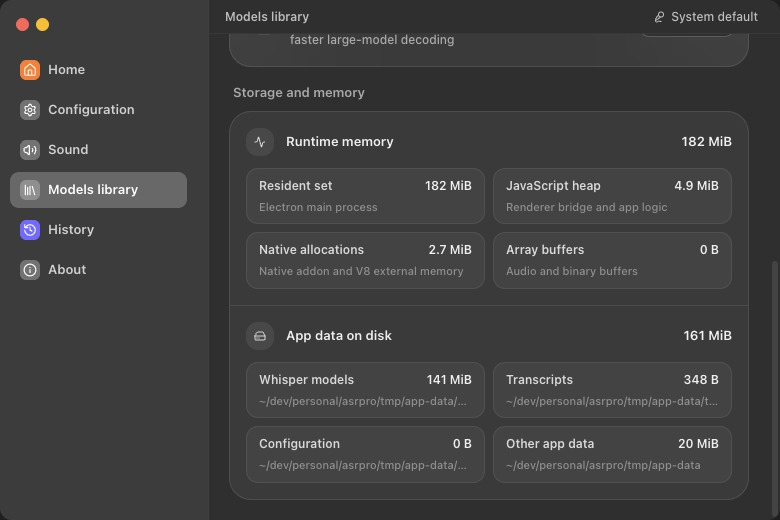
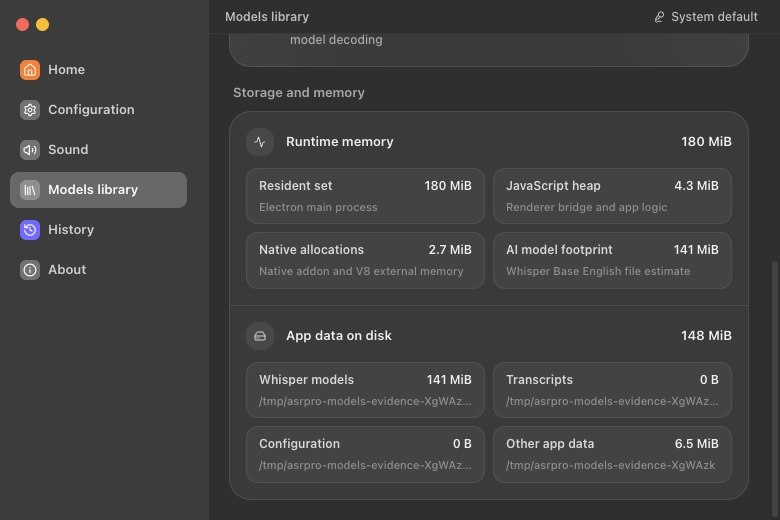
ASR Pro: polish model library controls

diff --git a/src/App.tsx b/src/App.tsx
@@ -221,6 +221,7 @@ const modelIdsByName: Record<string, string> = {
 };
 const transcriptHistoryStorageKey = "asrpro.transcriptHistory.v1";
 const audioInputDeviceStorageKey = "asrpro.audioInputDevice.v1";
+const selectedModelStorageKey = "asrpro.selectedModel.v1";
 const seededScreenshotHistoryIdPrefix = "readme-history-";
 const seededScreenshotHistoryRows = new Map([
   ["Product demo follow-up", "Summarize the product demo, send the follow-up notes, and schedule the model comparison review."],
@@ -402,6 +403,33 @@ function saveSelectedAudioInputId(deviceId: string) {
     window.localStorage.setItem(audioInputDeviceStorageKey, deviceId);
   } catch {
     // Local storage failures should not block recording.
+  }
+}
+
+function normalizeSelectedModelName(value: unknown, models: EngineModelInfo[] = fallbackModelCards) {
+  if (typeof value !== "string" || !value.trim()) return undefined;
+
+  const normalized = value.trim();
+  const byName = models.find((model) => model.displayName === normalized);
+  if (byName) return byName.displayName;
+
+  const byId = models.find((model) => model.id === normalized);
+  return byId?.displayName;
+}
+
+function loadSelectedModelName(models: EngineModelInfo[] = fallbackModelCards) {
+  try {
+    return normalizeSelectedModelName(window.localStorage.getItem(selectedModelStorageKey), models);
+  } catch {
+    return undefined;
+  }
+}
+
+function saveSelectedModelName(modelName: string) {
+  try {
+    window.localStorage.setItem(selectedModelStorageKey, modelName);
+  } catch {
+    // Local storage failures should not block recognition.
   }
 }
 
@@ -898,7 +926,7 @@ function App() {
   const [recordingStatus, setRecordingStatus] = useState<RecordingStatus>("idle");
   const [recordingError, setRecordingError] = useState<string | null>(null);
   const [recordingDurationSeconds, setRecordingDurationSeconds] = useState(0);
-  const [selectedModel, setSelectedModel] = useState(defaultModelName);
+  const [selectedModel, setSelectedModel] = useState(() => loadSelectedModelName() ?? defaultModelName);
   const [audioInputDevices, setAudioInputDevices] = useState<AudioInputDeviceOption[]>(defaultAudioInputOptions);
   const [selectedAudioInputId, setSelectedAudioInputId] = useState(loadSelectedAudioInputId);
   const [audioInputDevicesLoading, setAudioInputDevicesLoading] = useState(false);
@@ -916,6 +944,7 @@ function App() {
   const [isScrollbarVisible, setIsScrollbarVisible] = useState(true);
   const recordingStartedAtRef = useRef<number | null>(null);
   const recordingTransitionRef = useRef<"starting" | "stopping" | null>(null);
+  const runtimeStateLoadedRef = useRef(false);
   const scrollbarTimerRef = useRef<number | null>(null);
   const overlayPlacementTouchedRef = useRef(false);
   useMicrophoneWaveform(isRecording);
@@ -1105,6 +1134,11 @@ function App() {
     saveSelectedAudioInputId(deviceId);
   }, []);
 
+  const handleSelectModel = useCallback((modelName: string) => {
+    setSelectedModel(modelName);
+    saveSelectedModelName(modelName);
+  }, []);
+
   const handleTextEditorChange = useCallback((editorId: string) => {
     const normalizedEditorId = normalizeTextEditorId(editorId, textEditorOptions);
     setSelectedTextEditorId(normalizedEditorId);
@@ -1287,11 +1321,17 @@ function App() {
       }).catch(() => {});
     }
 
-    if (api.getRuntimeState) {
+    if (api.getRuntimeState && !runtimeStateLoadedRef.current) {
+      runtimeStateLoadedRef.current = true;
       Promise.resolve(api.getRuntimeState()).then((state) => {
         if (!state) return;
         setRuntimeInfo(state);
-        setSelectedModel(state.defaultModel || defaultModelName);
+        const nextModels = getRuntimeModels(state.models);
+        const nextSelectedModel = loadSelectedModelName(nextModels)
+          ?? normalizeSelectedModelName(state.defaultModelId, nextModels)
+          ?? normalizeSelectedModelName(state.defaultModel, nextModels)
+          ?? defaultModelName;
+        setSelectedModel(nextSelectedModel);
         const nextTextEditorOptions = normalizeTextEditorOptions(state.textEditors);
         setTextEditorOptions(nextTextEditorOptions);
         setSelectedTextEditorId(normalizeTextEditorId(state.defaultTextEditor, nextTextEditorOptions));
@@ -1303,7 +1343,9 @@ function App() {
         } else if (!recordingTransitionRef.current && !audioRecordingService.isRecording()) {
           setIsRecording(false);
         }
-      }).catch(() => {});
+      }).catch(() => {
+        runtimeStateLoadedRef.current = false;
+      });
     }
 
     const unsubscribeRecording = api.onRecordingState?.((state) => {
@@ -1464,7 +1506,7 @@ function App() {
                 engine={runtimeInfo?.engine}
                 busyModelId={modelActionId}
                 actionError={modelLibraryError}
-                onSelectModel={setSelectedModel}
+                onSelectModel={handleSelectModel}
                 onDownloadModel={handleDownloadModel}
                 onDeleteModel={handleDeleteModel}
               />
@@ -2145,29 +2187,21 @@ function ModelsView({
                   ) : null}
                 </button>
                 <div className="flex shrink-0 items-center justify-end gap-2 pl-11 sm:pl-0">
-                  <StatusLabel>{installed ? "Ready" : "Needs setup"}</StatusLabel>
+                  <ModelStatusLabel installed={installed} />
                   {installed ? (
-                    <PanelControlButton
-                      type="button"
-                      aria-label={`Delete ${model.displayName}`}
-                      className="h-8 px-2.5 hover:bg-[#4a3333]"
-                      disabled={busy}
+                    <ModelActionButton
+                      ariaLabel={`Delete ${model.displayName}`}
+                      busy={busy}
+                      kind="delete"
                       onClick={() => onDeleteModel(model.id)}
-                    >
-                      <Trash2 className="size-3" />
-                      <span>{busy ? "Deleting" : "Delete"}</span>
-                    </PanelControlButton>
+                    />
                   ) : (
-                    <PanelControlButton
-                      type="button"
-                      aria-label={`Download ${model.displayName}`}
-                      className="h-8 px-2.5 hover:bg-[#394a40]"
-                      disabled={busy}
+                    <ModelActionButton
+                      ariaLabel={`Download ${model.displayName}`}
+                      busy={busy}
+                      kind="download"
                       onClick={() => onDownloadModel(model.id)}
-                    >
-                      {busy ? <RefreshCw className="size-3 animate-spin" /> : <Download className="size-3" />}
-                      <span>{busy ? "Setting up" : "Download"}</span>
-                    </PanelControlButton>
+                    />
                   )}
                 </div>
               </div>
@@ -2191,6 +2225,46 @@ function ModelsView({
       ) : null}
       <ResourceStatsPanel stats={storageStats} />
     </ViewFrame>
+  );
+}
+
+function ModelStatusLabel({ installed }: { installed: boolean }) {
+  const Icon = installed ? CheckCircle2 : Info;
+  const toneClass = installed ? "text-[#a9d9b8]" : "text-[#d9bd72]";
+  const label = installed ? "Ready" : "Needs setup";
+
+  return (
+    <span className={`inline-flex shrink-0 items-center gap-1 text-[11px] font-semibold ${toneClass}`}>
+      <Icon className="size-3" />
+      {label}
+    </span>
+  );
+}
+
+interface ModelActionButtonProps {
+  ariaLabel: string;
+  busy: boolean;
+  kind: "download" | "delete";
+  onClick: () => void;
+}
+
+function ModelActionButton({ ariaLabel, busy, kind, onClick }: ModelActionButtonProps) {
+  const Icon = busy ? RefreshCw : kind === "delete" ? Trash2 : Download;
+  const toneClass = kind === "delete"
+    ? "text-[#cfcfcf] hover:bg-[#4a3333] hover:text-[#ffb3aa]"
+    : "text-[#cfcfcf] hover:bg-[#344235] hover:text-[#bce7c9]";
+
+  return (
+    <button
+      type="button"
+      aria-label={ariaLabel}
+      title={ariaLabel}
+      className={`grid size-8 shrink-0 place-items-center rounded-full border-0 bg-transparent p-0 transition active:scale-[0.96] disabled:cursor-wait disabled:opacity-55 ${toneClass} ${focusRingClass}`}
+      disabled={busy}
+      onClick={onClick}
+    >
+      <Icon className={`size-3.5 ${busy ? "animate-spin" : ""}`} />
+    </button>
   );
 }
 

diff --git a/src/App.test.tsx b/src/App.test.tsx
@@ -1105,6 +1105,7 @@ describe("ASR Pro Electron shell", () => {
           items: [
             { id: "resident", label: "Resident set", bytes: 125_829_120 },
             { id: "heap", label: "JavaScript heap", bytes: 41_943_040 },
+            { id: "model-footprint", label: "AI model footprint", bytes: 148_897_792 },
           ],
         },
         {
@@ -1159,14 +1160,73 @@ describe("ASR Pro Electron shell", () => {
     expect(screen.getAllByText("1.5 GiB").length).toBeGreaterThan(0);
     expect(screen.getByText("Runtime memory")).toBeTruthy();
     expect(screen.getByText("Resident set")).toBeTruthy();
+    expect(screen.getByText("AI model footprint")).toBeTruthy();
     expect(screen.getAllByText("120 MiB").length).toBeGreaterThan(0);
     expect(screen.getByText("Whisper models")).toBeTruthy();
+    expect(screen.getByText("Needs setup").className).toContain("text-[11px]");
 
-    await user.click(screen.getByRole("button", { name: "Download Whisper Large v3 Turbo" }));
+    const downloadButton = screen.getByRole("button", { name: "Download Whisper Large v3 Turbo" });
+    expect(downloadButton.textContent).not.toContain("Download");
+    expect(downloadButton.className).toContain("border-0");
+
+    await user.click(downloadButton);
     expect(downloadModel).toHaveBeenCalledWith("whisper-large-v3-turbo");
 
-    await user.click(screen.getByRole("button", { name: "Delete Whisper Base English" }));
+    const deleteButton = screen.getByRole("button", { name: "Delete Whisper Base English" });
+    expect(deleteButton.textContent).not.toContain("Delete");
+    expect(deleteButton.className).toContain("border-0");
+
+    await user.click(deleteButton);
     expect(deleteModel).toHaveBeenCalledWith("whisper-base-en");
+  });
+
+  it("keeps the selected model after the runtime state refreshes", async () => {
+    const user = userEvent.setup();
+    const models = [
+      {
+        id: "whisper-base-en",
+        displayName: "Whisper Base English",
+        detail: "Default local model for English dictation",
+        sizeLabel: "142 MiB",
+        installed: true,
+        diskBytes: 148_897_792,
+      },
+      {
+        id: "whisper-small-en",
+        displayName: "Whisper Small English",
+        detail: "Better accuracy, larger local model",
+        sizeLabel: "466 MiB",
+        installed: false,
+        diskBytes: 0,
+      },
+    ];
+    const getRuntimeState = vi.fn().mockResolvedValue({
+      isRecording: false,
+      defaultModel: "Whisper Base English",
+      models,
+      shortcut: "CommandOrControl+`",
+    });
+    window.asrpro = {
+      getPlatform: vi.fn(),
+      getAppInfo: vi.fn(),
+      getRuntimeState,
+      setRecording: vi.fn(),
+      toggleRecording: vi.fn(),
+      onRecordingState: vi.fn(),
+      windowControl: vi.fn(),
+    } as any;
+
+    render(<App />);
+    await user.click(screen.getByRole("button", { name: "Models library" }));
+
+    const smallButton = await screen.findByRole("button", { name: "Select Whisper Small English" });
+    await waitFor(() => expect(getRuntimeState).toHaveBeenCalledTimes(1));
+    await user.click(smallButton);
+
+    await waitFor(() => expect(smallButton.getAttribute("aria-pressed")).toBe("true"));
+    expect(getRuntimeState).toHaveBeenCalledTimes(1);
+    expect(smallButton.getAttribute("aria-pressed")).toBe("true");
+    expect(screen.getByRole("button", { name: "Select Whisper Base English" }).getAttribute("aria-pressed")).toBe("false");
   });
 
   it("updates the recording overlay placement from settings", async () => {

diff --git a/src/electronRuntime.test.ts b/src/electronRuntime.test.ts
@@ -90,14 +90,14 @@ describe("Electron runtime helpers", () => {
         heapUsed: 40,
         external: 20,
         arrayBuffers: 10,
-      });
+      }, "whisper-base-en");
 
       expect(stats.groups.map((group: { id: string }) => group.id)).toEqual(["memory", "disk"]);
       expect(stats.groups[0].items.map((item: { id: string; bytes: number }) => [item.id, item.bytes])).toEqual([
         ["resident", 100],
         ["heap", 40],
         ["native", 20],
-        ["buffers", 10],
+        ["model-footprint", 12],
       ]);
       expect(stats.groups[1].items.map((item: { id: string; bytes: number }) => [item.id, item.bytes])).toEqual([
         ["whisper-models", 12],
